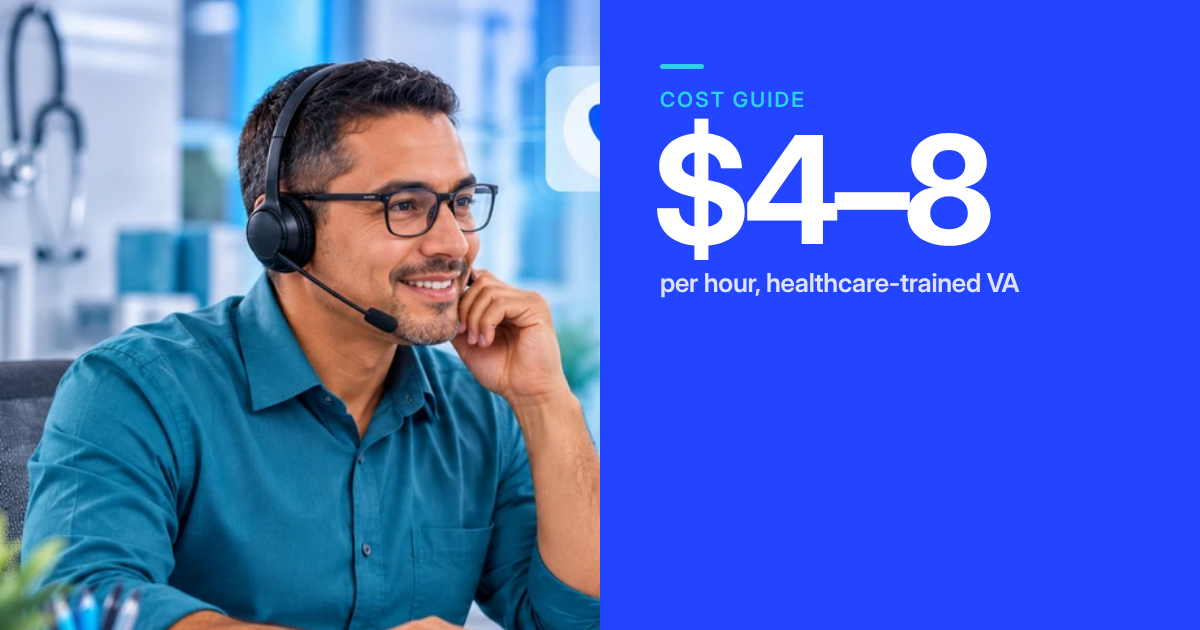
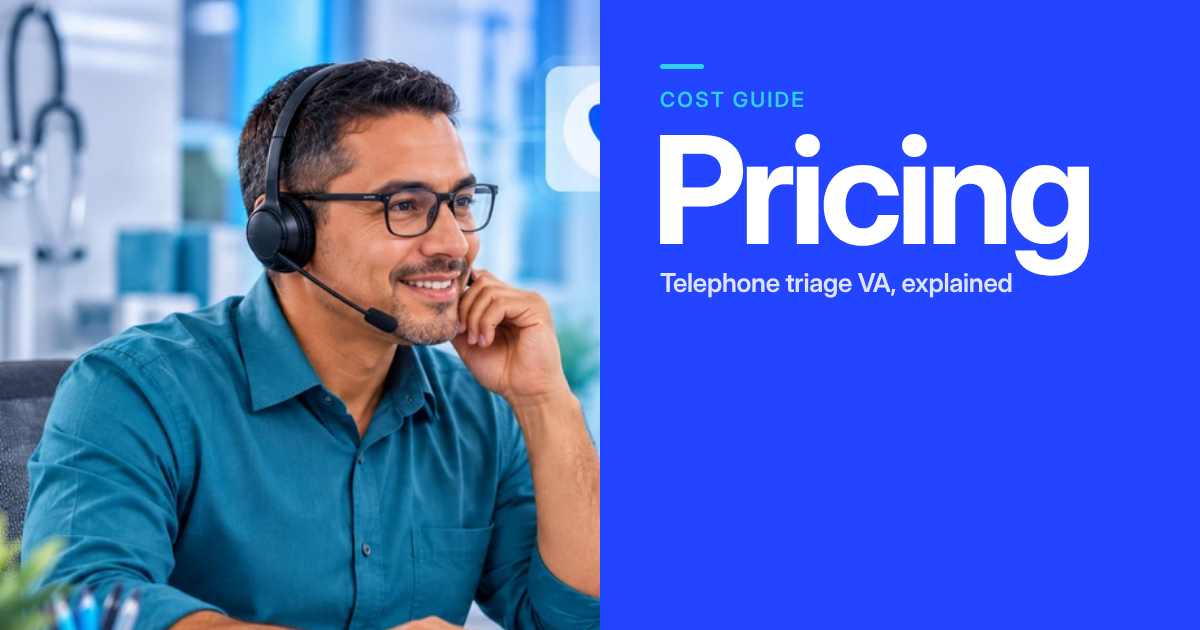
Remove unconfirmed price from covers; add 10 more cover designs
- v2: cost cover and page no longer show a per-hour price
- v3: 10 more designs across the six styles on real titles
  (jobs-more.json, renders/more), added to the style guide page

Claude-Session: https://claude.ai/code/session_01AHsVWFWnB54Ytwp6awPeMf

Changed region(s): [[0.5242, 0.181, 0.925, 0.4825]]

diff --git a/blog-image-research/v3/page/index.html b/blog-image-research/v3/page/index.html
@@ -43,6 +43,9 @@ tr:last-child td { border-bottom:0; }
 .listing img { width:100%; border:1px solid var(--line); border-radius:10px; background:#fff; display:block; }
 ol { padding-left:1.2em; max-width:68ch; } ol li { margin:6px 0; }
 @media (max-width:760px) { .cols, .listing { grid-template-columns:1fr; } .cur { grid-template-columns:1fr 1fr; } }
+.more { display:grid; grid-template-columns:repeat(auto-fill,minmax(300px,1fr)); gap:18px; margin-top:18px; }
+.more figure { margin:0; min-width:0; } .more img { width:100%; border-radius:10px; display:block; }
+.more figcaption { font-size:.84rem; color:var(--muted); margin-top:8px; line-height:1.4; } .more figcaption b { color:var(--ink); }
 </style>
 <div class="wrap">
 <header>
@@ -51,7 +54,7 @@ ol { padding-left:1.2em; max-width:68ch; } ol li { margin:6px 0; }
 <p class="lede">Your covers look good; the problem is that every article uses the same one. These six styles each belong to a group of article types, the way Calendly, Buffer, HubSpot, Mailchimp and Figma mix styles on their blogs. Your current look stays as one of the six.</p>
 <div class="cur"><img src="a/current-1.jpg" alt="Current cover"><img src="a/current-2.jpg" alt="Current cover"><img src="a/current-3.jpg" alt="Current cover"><img src="a/current-4.jpg" alt="Current cover"></div>
 <p class="cap">Today: the latest four covers on honesttaskers.com/articles, all one composition.</p>
-<nav class="toc"><a href="#s1"><b>1</b>Practice Scene</a><a href="#s2"><b>2</b>App Card</a><a href="#s3"><b>3</b>Arch Portrait</a><a href="#s4"><b>4</b>Ink on Colour</a><a href="#s5"><b>5</b>Software Bridge</a><a href="#s6"><b>6</b>Number Cover</a><a href="#mix"><b>→</b>On your blog</a></nav>
+<nav class="toc"><a href="#s1"><b>1</b>Practice Scene</a><a href="#s2"><b>2</b>App Card</a><a href="#s3"><b>3</b>Arch Portrait</a><a href="#s4"><b>4</b>Ink on Colour</a><a href="#s5"><b>5</b>Software Bridge</a><a href="#s6"><b>6</b>Number Cover</a><a href="#more"><b>+</b>10 more designs</a><a href="#mix"><b>→</b>On your blog</a></nav>
 </header>
 <section class="style" id="s1">
 <div class="sh"><span class="no">1</span><div><h2>Practice Scene</h2><p class="tag">Your current style, kept</p></div></div>
@@ -85,11 +88,14 @@ ol { padding-left:1.2em; max-width:68ch; } ol li { margin:6px 0; }
 <div class="ex"><img src="a/s-5a-tool.jpg" alt="Example cover"><img src="a/s-5b-tool.jpg" alt="Example cover"></div></div>
 <div class="refs"><span>Reference</span><img src="a/ref-calendly-3.jpg" alt="Reference cover"><img src="a/ref-calendly-4.jpg" alt="Reference cover"><img src="a/ref-buffer-2.jpg" alt="Reference cover"></div></section><section class="style" id="s6">
 <div class="sh"><span class="no">6</span><div><h2>Number Cover</h2><p class="tag">The count, large, beside a photo</p></div></div>
-<div class="cols"><div class="txt"><p>The list count or one verified figure set very large on a brand field, a two-line label, and a photo on the right.</p>
-<h4>Use it for</h4><ul><li>&quot;N Best … Companies (2026)&quot;</li><li>Cost posts with a verified figure</li><li>Question sets (&quot;?&quot;)</li></ul><p class="count">~560 posts</p>
+<div class="cols"><div class="txt"><p>The list count set very large on a brand field, a two-line label, and a photo on the right.</p>
+<h4>Use it for</h4><ul><li>&quot;N Best … Companies (2026)&quot;</li><li>Cost posts, once a figure is confirmed</li><li>Question sets (&quot;?&quot;)</li></ul><p class="count">~560 posts</p>
 <h4>Borrowed from Stripe · Mailchimp</h4><p class="why">Stripe leads data posts with one big figure; Mailchimp gives its reports a typographic cover.</p></div>
 <div class="ex"><img src="a/s-6a-numeral.jpg" alt="Example cover"><img src="a/s-6b-numeral.jpg" alt="Example cover"></div></div>
 <div class="refs"><span>Reference</span><img src="a/ref-stripe-1.jpg" alt="Reference cover"><img src="a/ref-stripe-2.jpg" alt="Reference cover"><img src="a/ref-mailchimp-4.jpg" alt="Reference cover"></div></section>
+<section class="style" id="more"><h2>10 more designs on real titles</h2>
+<p class="tag">The same six styles applied to ten more of your articles, to show how far each one stretches.</p>
+<div class="more"><figure><img src="a/m-n01-scene.jpg" alt="A Day in the Life of a Virtual Referral Coordinator"><figcaption><b>1 Practice Scene</b><br>A Day in the Life of a Virtual Referral Coordinator</figcaption></figure><figure><img src="a/m-n02-card.jpg" alt="Tasks to Delegate in a Sports Medicine Practice"><figcaption><b>2 App Card</b><br>Tasks to Delegate in a Sports Medicine Practice</figcaption></figure><figure><img src="a/m-n03-card.jpg" alt="Benefits for Concierge Medicine Practices"><figcaption><b>2 App Card</b><br>Benefits for Concierge Medicine Practices</figcaption></figure><figure><img src="a/m-n04-arch.jpg" alt="Virtual Medical Receptionist Skills"><figcaption><b>3 Arch Portrait</b><br>Virtual Medical Receptionist Skills</figcaption></figure><figure><img src="a/m-n05-arch.jpg" alt="Bilingual Virtual Medical Assistant Job Description"><figcaption><b>3 Arch Portrait</b><br>Bilingual Virtual Medical Assistant Job Description</figcaption></figure><figure><img src="a/m-n06-archvs.jpg" alt="Chiropractic Virtual Medical Assistant vs. In-House Staff"><figcaption><b>3 Arch Portrait (vs.)</b><br>Chiropractic Virtual Medical Assistant vs. In-House Staff</figcaption></figure><figure><img src="a/m-n07-ink.jpg" alt="Can Offshore Virtual Assistants Access PHI? What HIPAA Actually Says"><figcaption><b>4 Ink on Colour</b><br>Can Offshore Virtual Assistants Access PHI? What HIPAA Actually Says</figcaption></figure><figure><img src="a/m-n08-tool.jpg" alt="Virtual Medical Assistant in DrChrono"><figcaption><b>5 Software Bridge</b><br>Virtual Medical Assistant in DrChrono</figcaption></figure><figure><img src="a/m-n09-tool.jpg" alt="How a Coder Works in Open Dental?"><figcaption><b>5 Software Bridge</b><br>How a Coder Works in Open Dental?</figcaption></figure><figure><img src="a/m-n10-numeral.jpg" alt="11 Best Virtual Healthcare Assistant Companies (2026)"><figcaption><b>6 Number Cover</b><br>11 Best Virtual Healthcare Assistant Companies (2026)</figcaption></figure></div></section>
 <section class="style" id="mix">
 <h2>Which style for which article</h2>
 <div class="tbl"><table><thead><tr><th>Article type (from your 1,903 titles)</th><th>Posts</th><th>Style</th></tr></thead><tbody>
@@ -99,7 +105,7 @@ ol { padding-left:1.2em; max-width:68ch; } ol li { margin:6px 0; }
 <tr><td>"… vs. In-House Staff"</td><td>251</td><td>3 Arch Portrait (two arches)</td></tr>
 <tr><td>HIPAA, compliance, policy</td><td>29+</td><td>4 Ink on Colour</td></tr>
 <tr><td>Software and EHR</td><td>108</td><td>5 Software Bridge</td></tr>
-<tr><td>"N Best … Companies", cost posts with a verified figure</td><td>~560</td><td>6 Number Cover</td></tr>
+<tr><td>"N Best … Companies", question sets</td><td>~560</td><td>6 Number Cover</td></tr>
 </tbody></table></div>
 <h2 style="margin-top:48px">How it looks on your articles page</h2>
 <div class="listing"><img src="a/listing.jpg" alt="Twelve covers in a replica of the honesttaskers.com listing card">
@@ -109,7 +115,7 @@ ol { padding-left:1.2em; max-width:68ch; } ol li { margin:6px 0; }
 <li>No two neighbouring cards use the same style.</li>
 <li>Rotate the field colour inside a style (pale blue, pale aqua, deep blue).</li>
 <li>Cards show specific, readable content, never placeholder bars.</li>
-<li>No corner checkmark and no title text on the image. Numbers only when verified.</li>
+<li>No corner checkmark and no title text on the image. No prices or figures until your team confirms them.</li>
 </ol>
 <h4>Before using these live</h4><p>The photos in styles 1, 3 and 6 are crops of your existing images, so some old floating cards still show at the edges. Fresh photos without built-in UI will look cleaner. Renders use Inter in place of Sequel Sans.</p></div></div>
 </section>

diff --git a/blog-image-research/v2/page/index.html b/blog-image-research/v2/page/index.html
@@ -113,7 +113,7 @@ ol.rules { max-width:70ch; padding-left:1.2em; } ol.rules li { margin:8px 0; }
 <tr><td><b>Frame</b></td><td>Photo on the left, one legible UI card on a brand panel</td><td>Calendly, Loom, Jane: one real UI card</td><td>Role explainers, how-to, software &amp; EHR, hiring</td><td class="num">~840</td></tr>
 <tr><td><b>Numeral</b></td><td>Large count and a short label beside a photo</td><td>Stripe statistics, Rippling "27"</td><td>"N Best … Companies", interview questions</td><td class="num">~450</td></tr>
 <tr><td><b>Split</b></td><td>In-house photo (muted) next to virtual photo (full colour), teal seam</td><td>Calendly bridges, made photographic</td><td>"… vs. In-House Staff"</td><td class="num">251</td></tr>
-<tr><td><b>Stat</b></td><td>Photo and one verified figure ($4–8 per hour)</td><td>Stripe industry posts</td><td>Cost, pricing, pay</td><td class="num">211</td></tr>
+<tr><td><b>Stat</b></td><td>Photo and one figure you have confirmed</td><td>Stripe industry posts</td><td>Cost, pricing, pay</td><td class="num">211</td></tr>
 <tr><td><b>Duotone</b></td><td>Full-bleed photo in brand blues with one white badge</td><td>Rippling people posts, Mercury palettes, Loom</td><td>Compliance, tasks &amp; benefits</td><td class="num">~170</td></tr>
 <tr><td><b>Scene</b></td><td>A practice detail with no VA in it (pet, treatment room, front desk) and one brand corner block</td><td>athenahealth, Weave, SimplePractice</td><td>Specialty posts (dental, vet, MedSpa…), mixed in to break up faces</td><td class="num">any</td></tr>
 </tbody></table></div>
@@ -142,7 +142,7 @@ ol.rules { max-width:70ch; padding-left:1.2em; } ol.rules li { margin:8px 0; }
 <li>One UI card at most, with specific, readable content. No placeholder bars.</li>
 <li>No corner checkmark, no glow streaks, no floating icon clusters, no title on the image.</li>
 <li>Faces, numbers and cards stay in the top 56% (x 115–1085, y 0–353 of a 1200×630 canvas).</li>
-<li>Numbers on covers are verified brand facts only (for example the $4–8 per hour range).</li>
+<li>Numbers on covers must be confirmed by the Honest Taskers team before use. No prices until then.</li>
 </ol>
 </section>
 

diff --git a/blog-image-research/v3/templates/cover.html b/blog-image-research/v3/templates/cover.html
@@ -122,7 +122,7 @@
       `<img src="${s.root}assets/ht-logo.svg" style="position:absolute;width:430px;left:44px;top:42px">`);
     add('abs', css({ left: 610, top: 66, width: 230, height: 230, borderRadius: 54, background: '#fff', boxShadow: '0 20px 44px rgba(15,30,110,.16)',
       display: 'flex', alignItems: 'center', justifyContent: 'center', flexDirection: 'column', gap: '6px' }),
-      `<div style="font:700 ${s.tool.length > 8 ? 40 : 52}px/1 var(--font);color:#0b1440;letter-spacing:-.02em">${s.tool}</div><div style="font:600 17px var(--font);color:#6b7396;letter-spacing:.08em;text-transform:uppercase">${s.toolSub || 'EHR'}</div>`);
+      `<div style="font:700 ${s.tool.length > 9 ? 34 : s.tool.length > 6 ? 42 : 52}px/1 var(--font);color:#0b1440;letter-spacing:-.02em">${s.tool}</div><div style="font:600 17px var(--font);color:#6b7396;letter-spacing:.08em;text-transform:uppercase">${s.toolSub || 'EHR'}</div>`);
     dateTile(176, 150); chartTile(896, 170);
   }
 
